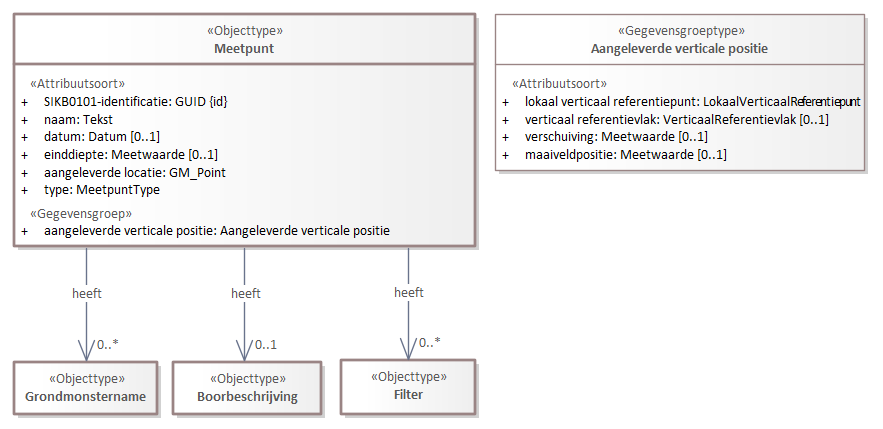
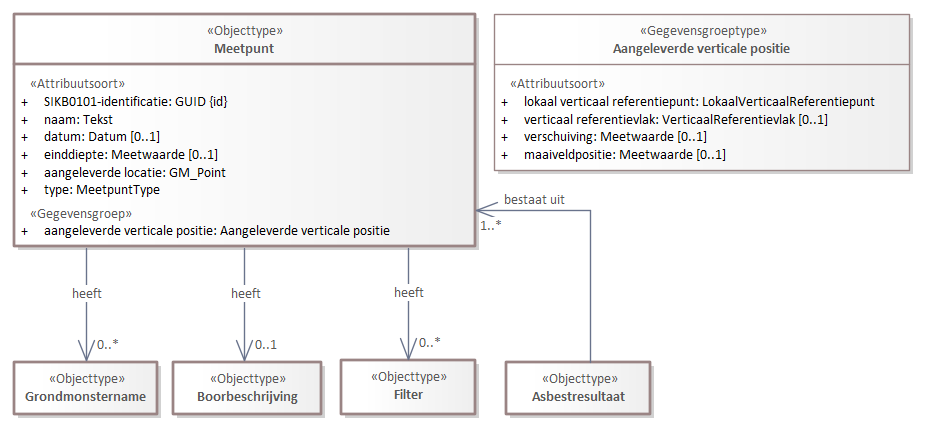
Conceptualmodel-MilieuhygienischbodemonderzoekSAD-1.09-1-20231205-20240605-142611

diff --git a/data/SAD-cat.msword.html b/data/SAD-cat.msword.html
@@ -15,7 +15,7 @@
    <body>
       <p>Conceptual model/Milieuhygienisch bodemonderzoek SAD/20231205</p>
       <p>Imvertor: Nightly-build.14</p>
-      <p>Model release: Conceptualmodel-MilieuhygienischbodemonderzoekSAD-1.09-1-20231205-20240605-134249</p>
+      <p>Model release: Conceptualmodel-MilieuhygienischbodemonderzoekSAD-1.09-1-20231205-20240605-142611</p>
       <hr>
       <section>
          <h1>Artikel 1 Definitie van registratieobject, entiteiten en attributen</h1>
@@ -941,7 +941,7 @@
                         </tbody>
                      </table>
                      </section>
-                  <section id="detail_d107919e4887">
+                  <section id="detail_d107955e4887">
                      <h4>  registratiegeschiedenis</h4>
                      <table style="width: 100%;">
                         <colgroup style="width: 30%;"></colgroup>
@@ -989,7 +989,7 @@
                         </tbody>
                      </table>
                   </section>
-                  <section id="detail_d107919e5115">
+                  <section id="detail_d107955e5115">
                      <h4>  gestandaardiseerde locatie</h4>
                      <table style="width: 100%;">
                         <colgroup style="width: 30%;"></colgroup>
@@ -1034,7 +1034,7 @@
                         </tbody>
                      </table>
                   </section>
-                  <section id="detail_d107919e5343">
+                  <section id="detail_d107955e5343">
                      <h4>  rapport</h4>
                      <table style="width: 100%;">
                         <colgroup style="width: 30%;"></colgroup>
@@ -2176,7 +2176,7 @@
                </section>
                <section id="global_class_Model_Meetpunt">
                   <h3>   Meetpunt</h3>
-                  <div class="imageinfo "><img src="Images/EAID_48BB49BC_4D65_45ad_AED4_007A19BB43F2.png" usemap="#imagemap-EAID_48BB49BC_4D65_45ad_AED4_007A19BB43F2" alt="Diagram: Boring - detail"><map name="imagemap-EAID_48BB49BC_4D65_45ad_AED4_007A19BB43F2"><area shape="rect" alt="Filter" coords="341,360,476,415" href="#global_class_Model_Filter"><area shape="rect" alt="Grondmonstername" coords="14,362,158,415" href="#global_class_Model_Grondmonstername"><area shape="rect" alt="Boorbeschrijving" coords="173,362,322,415" href="#global_class_Model_Boorbeschrijving"><area shape="rect" alt="Aangeleverde verticale positie" coords="495,14,865,171" href="#global_class_Model_Aangeleverdeverticalepositie"><area shape="rect" alt="Meetpunt" coords="14,14,476,247" href="#global_class_Model_Meetpunt"></map></div>
+                  <div class="imageinfo "><img src="Images/EAID_48BB49BC_4D65_45ad_AED4_007A19BB43F2.png" usemap="#imagemap-EAID_48BB49BC_4D65_45ad_AED4_007A19BB43F2" alt="Diagram: Boring - detail"><map name="imagemap-EAID_48BB49BC_4D65_45ad_AED4_007A19BB43F2"><area shape="rect" alt="Asbestresultaat" coords="506,362,651,415" href="#global_class_Model_Asbestresultaat"><area shape="rect" alt="Filter" coords="341,360,476,415" href="#global_class_Model_Filter"><area shape="rect" alt="Grondmonstername" coords="14,362,158,415" href="#global_class_Model_Grondmonstername"><area shape="rect" alt="Boorbeschrijving" coords="173,362,322,415" href="#global_class_Model_Boorbeschrijving"><area shape="rect" alt="Aangeleverde verticale positie" coords="494,14,910,171" href="#global_class_Model_Aangeleverdeverticalepositie"><area shape="rect" alt="Meetpunt" coords="14,14,476,247" href="#global_class_Model_Meetpunt"></map></div>
                   <table style="width: 100%;">
                      <colgroup style="width: 30%;"></colgroup>
                      <colgroup style="width: 70%;"></colgroup>
@@ -2535,7 +2535,7 @@
                         </tbody>
                      </table>
                      </section>
-                  <section id="detail_d107919e11018">
+                  <section id="detail_d107955e11018">
                      <h4>  aangeleverde verticale positie</h4>
                      <table style="width: 100%;">
                         <colgroup style="width: 30%;"></colgroup>
@@ -3496,7 +3496,7 @@
                         </tbody>
                      </table>
                      </section>
-                  <section id="detail_d107919e14132">
+                  <section id="detail_d107955e14132">
                      <h4>  grond</h4>
                      <table style="width: 100%;">
                         <colgroup style="width: 30%;"></colgroup>
@@ -3539,7 +3539,7 @@
                         </tbody>
                      </table>
                   </section>
-                  <section id="detail_d107919e14364">
+                  <section id="detail_d107955e14364">
                      <h4>  kleurwaarneming</h4>
                      <table style="width: 100%;">
                         <colgroup style="width: 30%;"></colgroup>
@@ -3573,7 +3573,7 @@
                         </tbody>
                      </table>
                   </section>
-                  <section id="detail_d107919e14549">
+                  <section id="detail_d107955e14549">
                      <h4>  bijzonder bestanddeel</h4>
                      <table style="width: 100%;">
                         <colgroup style="width: 30%;"></colgroup>
@@ -5368,7 +5368,7 @@
                         </tbody>
                      </table>
                      </section>
-                  <section id="detail_d107919e21546">
+                  <section id="detail_d107955e21546">
                      <h4>  aangeleverde verticale positie</h4>
                      <table style="width: 100%;">
                         <colgroup style="width: 30%;"></colgroup>
@@ -5841,7 +5841,7 @@
                         </tbody>
                      </table>
                      </section>
-                  <section id="detail_d107919e23383">
+                  <section id="detail_d107955e23383">
                      <h4>  kleurwaarneming</h4>
                      <table style="width: 100%;">
                         <colgroup style="width: 30%;"></colgroup>
@@ -6824,7 +6824,15 @@
                            </tr>
                            <tr>
                               <th>&nbsp;&nbsp;Identificerend gegeven</th>
-                              <td></td>
+                              <td>SIKB0101ID</td>
+                           </tr>
+                           <tr>
+                              <th>Toelichting</th>
+                              <td>
+                                 
+                                 <p>De waardebewerkingsmethode wordt gebruikt voor de uitwisseling van de onder- en bovengrenswaarden
+                                    voor asbestparameters.</p>
+                                 </td>
                            </tr>
                         </tbody>
                      </table>
@@ -7230,7 +7238,7 @@
                               <th>Toelichting</th>
                               <td>
                                  
-                                 <p>De <em>begindiepte</em> wordt weergegeven ten opzichte van het maaiveld.</p>
+                                 <p>De <em>einddiepte</em> wordt weergegeven ten opzichte van het maaiveld.</p>
                                  </td>
                            </tr>
                         </tbody>
@@ -52643,7 +52651,7 @@
                               </li>
                            
                            <li>
-                              <b>SIKB0101ID</b>: Het unieke ID van deze waarde in de SIKB0101 domeinwaarde lijst</li>
+                              <b>SIKB0101ID</b> (identificerend): Het unieke ID van deze waarde in de SIKB0101 domeinwaarde lijst</li>
                            
                            <li>
                               <b>IMBRO</b>: Geeft aan of de waarde onder IMBRO geldig is. </li>
@@ -52680,20 +52688,6 @@
                      <td>v</td>
                      <td>v</td>
                      <td>5-Percentiel</td>
-                  </tr>
-                  <tr>
-                     <td>10percentiel</td>
-                     <td>16</td>
-                     <td>v</td>
-                     <td>v</td>
-                     <td>10-Percentiel</td>
-                  </tr>
-                  <tr>
-                     <td>90percentiel</td>
-                     <td>32</td>
-                     <td>v</td>
-                     <td>v</td>
-                     <td>90-Percentiel</td>
                   </tr>
                   <tr>
                      <td>95percentiel</td>

diff --git a/data/SAD-cat.respec.html b/data/SAD-cat.respec.html
@@ -917,7 +917,7 @@
                </tbody>
             </table>
             </section>
-         <section id="detail_d107919e4887">
+         <section id="detail_d107955e4887">
             <h4>  registratiegeschiedenis</h4>
             <table style="width: 100%;">
                <colgroup style="width: 30%;"></colgroup>
@@ -965,7 +965,7 @@
                </tbody>
             </table>
          </section>
-         <section id="detail_d107919e5115">
+         <section id="detail_d107955e5115">
             <h4>  gestandaardiseerde locatie</h4>
             <table style="width: 100%;">
                <colgroup style="width: 30%;"></colgroup>
@@ -1010,7 +1010,7 @@
                </tbody>
             </table>
          </section>
-         <section id="detail_d107919e5343">
+         <section id="detail_d107955e5343">
             <h4>  rapport</h4>
             <table style="width: 100%;">
                <colgroup style="width: 30%;"></colgroup>
@@ -2152,7 +2152,7 @@
       </section>
       <section id="global_class_Model_Meetpunt">
          <h3>   Meetpunt</h3>
-         <div class="imageinfo "><img src="data/Images/EAID_48BB49BC_4D65_45ad_AED4_007A19BB43F2.png" usemap="#imagemap-EAID_48BB49BC_4D65_45ad_AED4_007A19BB43F2" alt="Diagram: Boring - detail"><map name="imagemap-EAID_48BB49BC_4D65_45ad_AED4_007A19BB43F2"><area shape="rect" alt="Filter" coords="341,360,476,415" href="#global_class_Model_Filter"><area shape="rect" alt="Grondmonstername" coords="14,362,158,415" href="#global_class_Model_Grondmonstername"><area shape="rect" alt="Boorbeschrijving" coords="173,362,322,415" href="#global_class_Model_Boorbeschrijving"><area shape="rect" alt="Aangeleverde verticale positie" coords="495,14,865,171" href="#global_class_Model_Aangeleverdeverticalepositie"><area shape="rect" alt="Meetpunt" coords="14,14,476,247" href="#global_class_Model_Meetpunt"></map></div>
+         <div class="imageinfo "><img src="data/Images/EAID_48BB49BC_4D65_45ad_AED4_007A19BB43F2.png" usemap="#imagemap-EAID_48BB49BC_4D65_45ad_AED4_007A19BB43F2" alt="Diagram: Boring - detail"><map name="imagemap-EAID_48BB49BC_4D65_45ad_AED4_007A19BB43F2"><area shape="rect" alt="Asbestresultaat" coords="506,362,651,415" href="#global_class_Model_Asbestresultaat"><area shape="rect" alt="Filter" coords="341,360,476,415" href="#global_class_Model_Filter"><area shape="rect" alt="Grondmonstername" coords="14,362,158,415" href="#global_class_Model_Grondmonstername"><area shape="rect" alt="Boorbeschrijving" coords="173,362,322,415" href="#global_class_Model_Boorbeschrijving"><area shape="rect" alt="Aangeleverde verticale positie" coords="494,14,910,171" href="#global_class_Model_Aangeleverdeverticalepositie"><area shape="rect" alt="Meetpunt" coords="14,14,476,247" href="#global_class_Model_Meetpunt"></map></div>
          <table style="width: 100%;">
             <colgroup style="width: 30%;"></colgroup>
             <colgroup style="width: 70%;"></colgroup>
@@ -2511,7 +2511,7 @@
                </tbody>
             </table>
             </section>
-         <section id="detail_d107919e11018">
+         <section id="detail_d107955e11018">
             <h4>  aangeleverde verticale positie</h4>
             <table style="width: 100%;">
                <colgroup style="width: 30%;"></colgroup>
@@ -3472,7 +3472,7 @@
                </tbody>
             </table>
             </section>
-         <section id="detail_d107919e14132">
+         <section id="detail_d107955e14132">
             <h4>  grond</h4>
             <table style="width: 100%;">
                <colgroup style="width: 30%;"></colgroup>
@@ -3515,7 +3515,7 @@
                </tbody>
             </table>
          </section>
-         <section id="detail_d107919e14364">
+         <section id="detail_d107955e14364">
             <h4>  kleurwaarneming</h4>
             <table style="width: 100%;">
                <colgroup style="width: 30%;"></colgroup>
@@ -3549,7 +3549,7 @@
                </tbody>
             </table>
          </section>
-         <section id="detail_d107919e14549">
+         <section id="detail_d107955e14549">
             <h4>  bijzonder bestanddeel</h4>
             <table style="width: 100%;">
                <colgroup style="width: 30%;"></colgroup>
@@ -5344,7 +5344,7 @@
                </tbody>
             </table>
             </section>
-         <section id="detail_d107919e21546">
+         <section id="detail_d107955e21546">
             <h4>  aangeleverde verticale positie</h4>
             <table style="width: 100%;">
                <colgroup style="width: 30%;"></colgroup>
@@ -5817,7 +5817,7 @@
                </tbody>
             </table>
             </section>
-         <section id="detail_d107919e23383">
+         <section id="detail_d107955e23383">
             <h4>  kleurwaarneming</h4>
             <table style="width: 100%;">
                <colgroup style="width: 30%;"></colgroup>
@@ -6800,7 +6800,15 @@
                   </tr>
                   <tr>
                      <th>&nbsp;&nbsp;Identificerend gegeven</th>
-                     <td></td>
+                     <td>SIKB0101ID</td>
+                  </tr>
+                  <tr>
+                     <th>Toelichting</th>
+                     <td>
+                        
+                        <p>De waardebewerkingsmethode wordt gebruikt voor de uitwisseling van de onder- en bovengrenswaarden
+                           voor asbestparameters.</p>
+                        </td>
                   </tr>
                </tbody>
             </table>
@@ -7206,7 +7214,7 @@
                      <th>Toelichting</th>
                      <td>
                         
-                        <p>De <em>begindiepte</em> wordt weergegeven ten opzichte van het maaiveld.</p>
+                        <p>De <em>einddiepte</em> wordt weergegeven ten opzichte van het maaiveld.</p>
                         </td>
                   </tr>
                </tbody>
@@ -52617,7 +52625,7 @@
                         </li>
                      
                      <li>
-                        <b>SIKB0101ID</b>: Het unieke ID van deze waarde in de SIKB0101 domeinwaarde lijst</li>
+                        <b>SIKB0101ID</b> (identificerend): Het unieke ID van deze waarde in de SIKB0101 domeinwaarde lijst</li>
                      
                      <li>
                         <b>IMBRO</b>: Geeft aan of de waarde onder IMBRO geldig is. </li>
@@ -52654,20 +52662,6 @@
                <td>v</td>
                <td>v</td>
                <td>5-Percentiel</td>
-            </tr>
-            <tr>
-               <td>10percentiel</td>
-               <td>16</td>
-               <td>v</td>
-               <td>v</td>
-               <td>10-Percentiel</td>
-            </tr>
-            <tr>
-               <td>90percentiel</td>
-               <td>32</td>
-               <td>v</td>
-               <td>v</td>
-               <td>90-Percentiel</td>
             </tr>
             <tr>
                <td>95percentiel</td>
